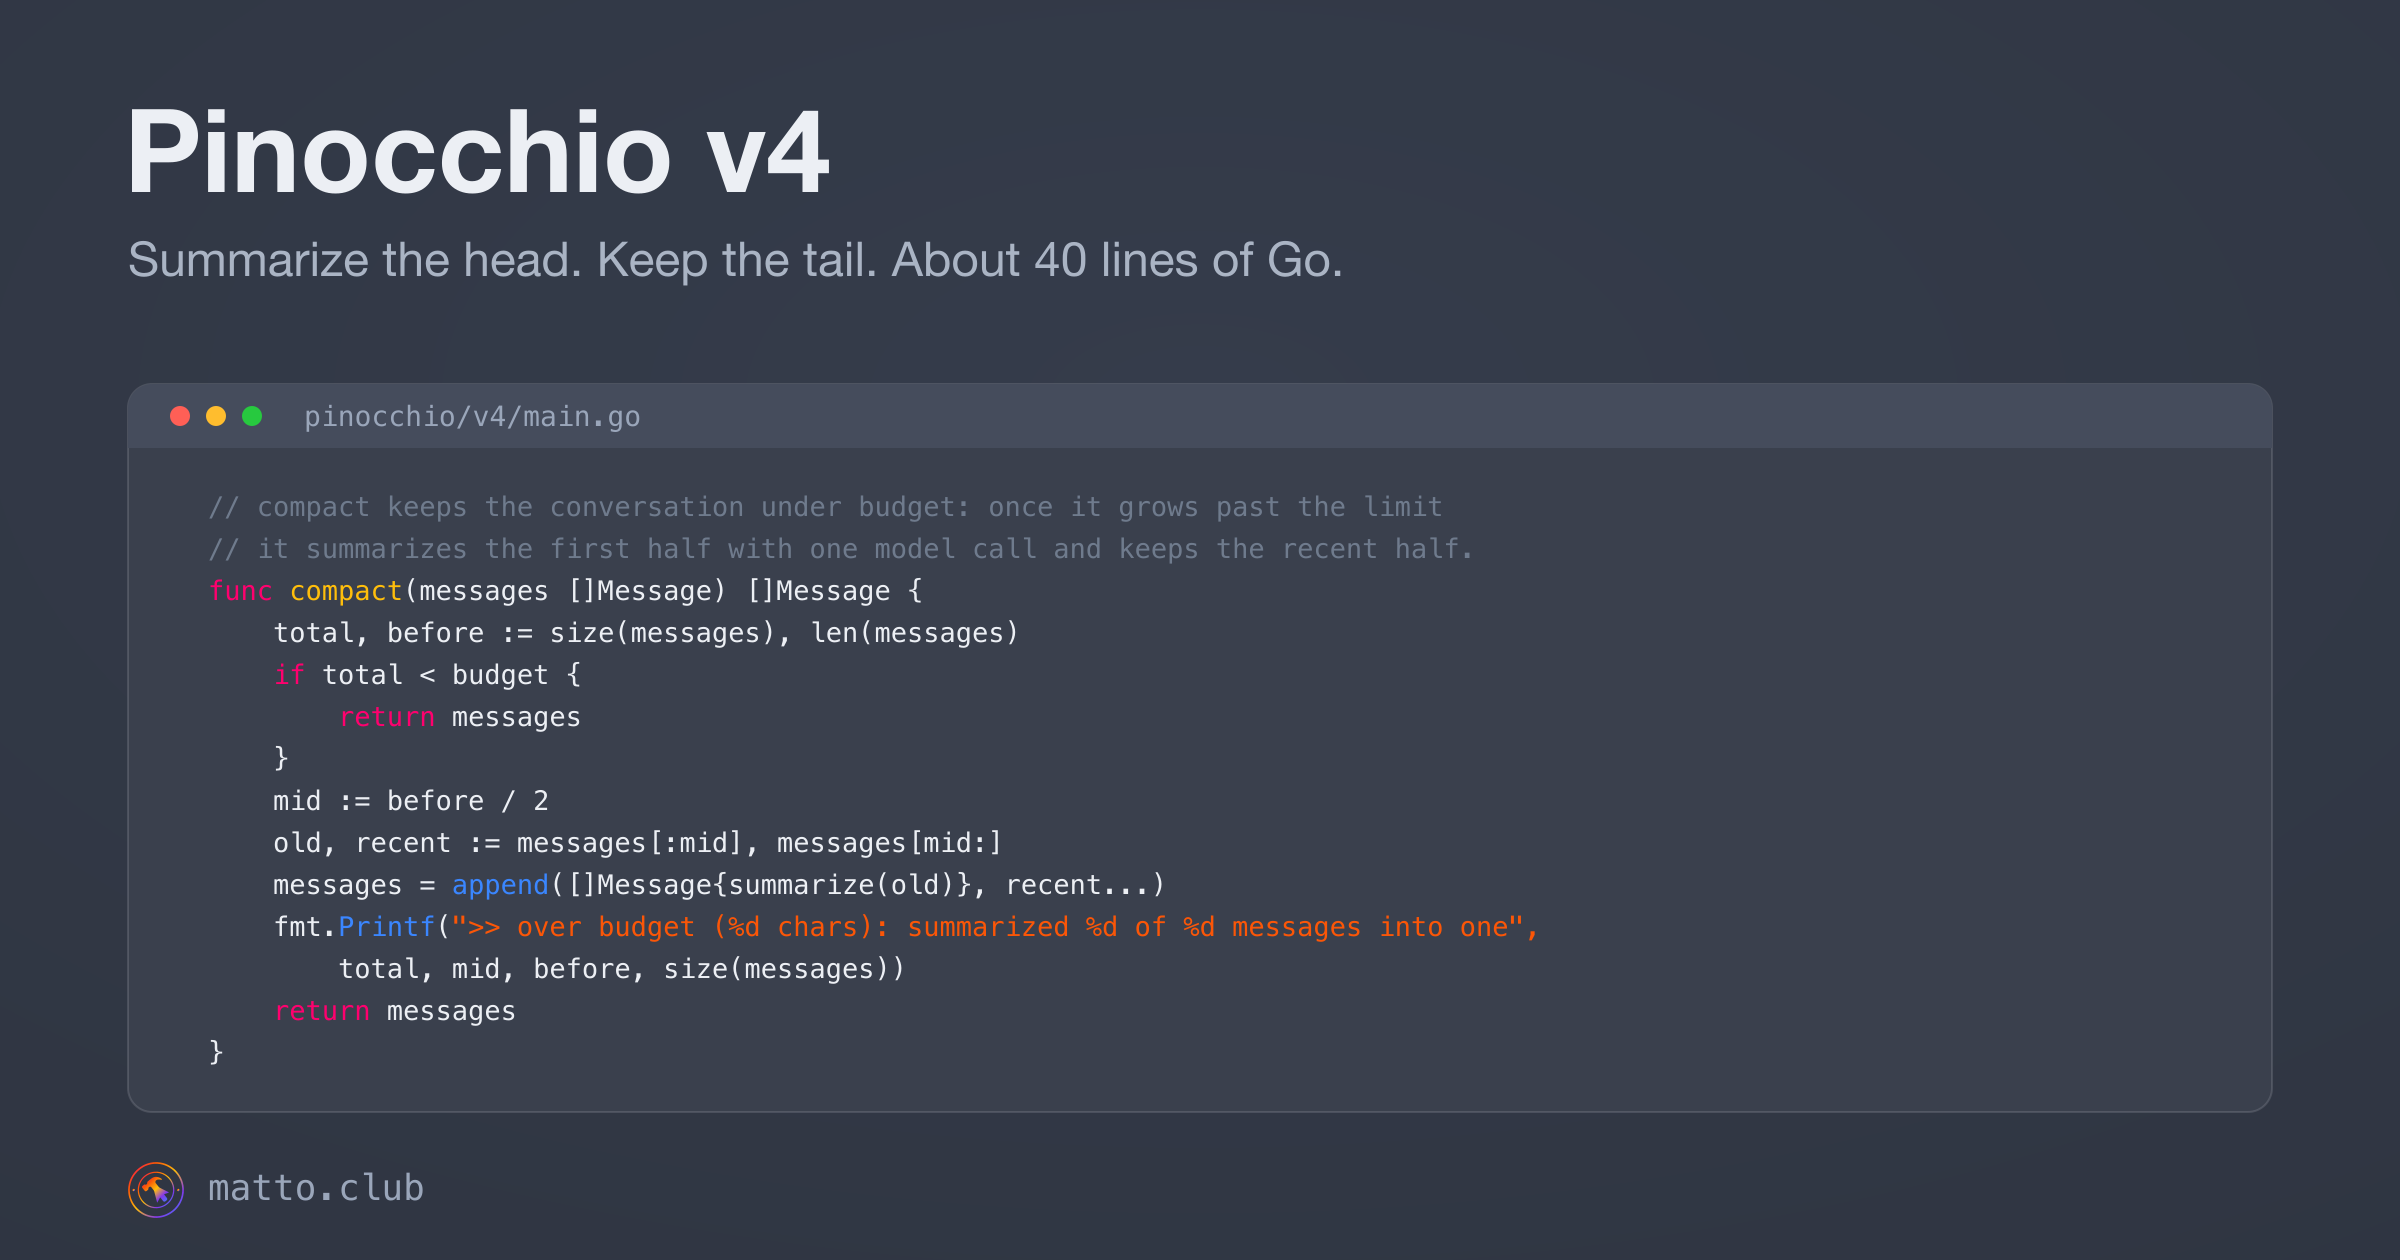
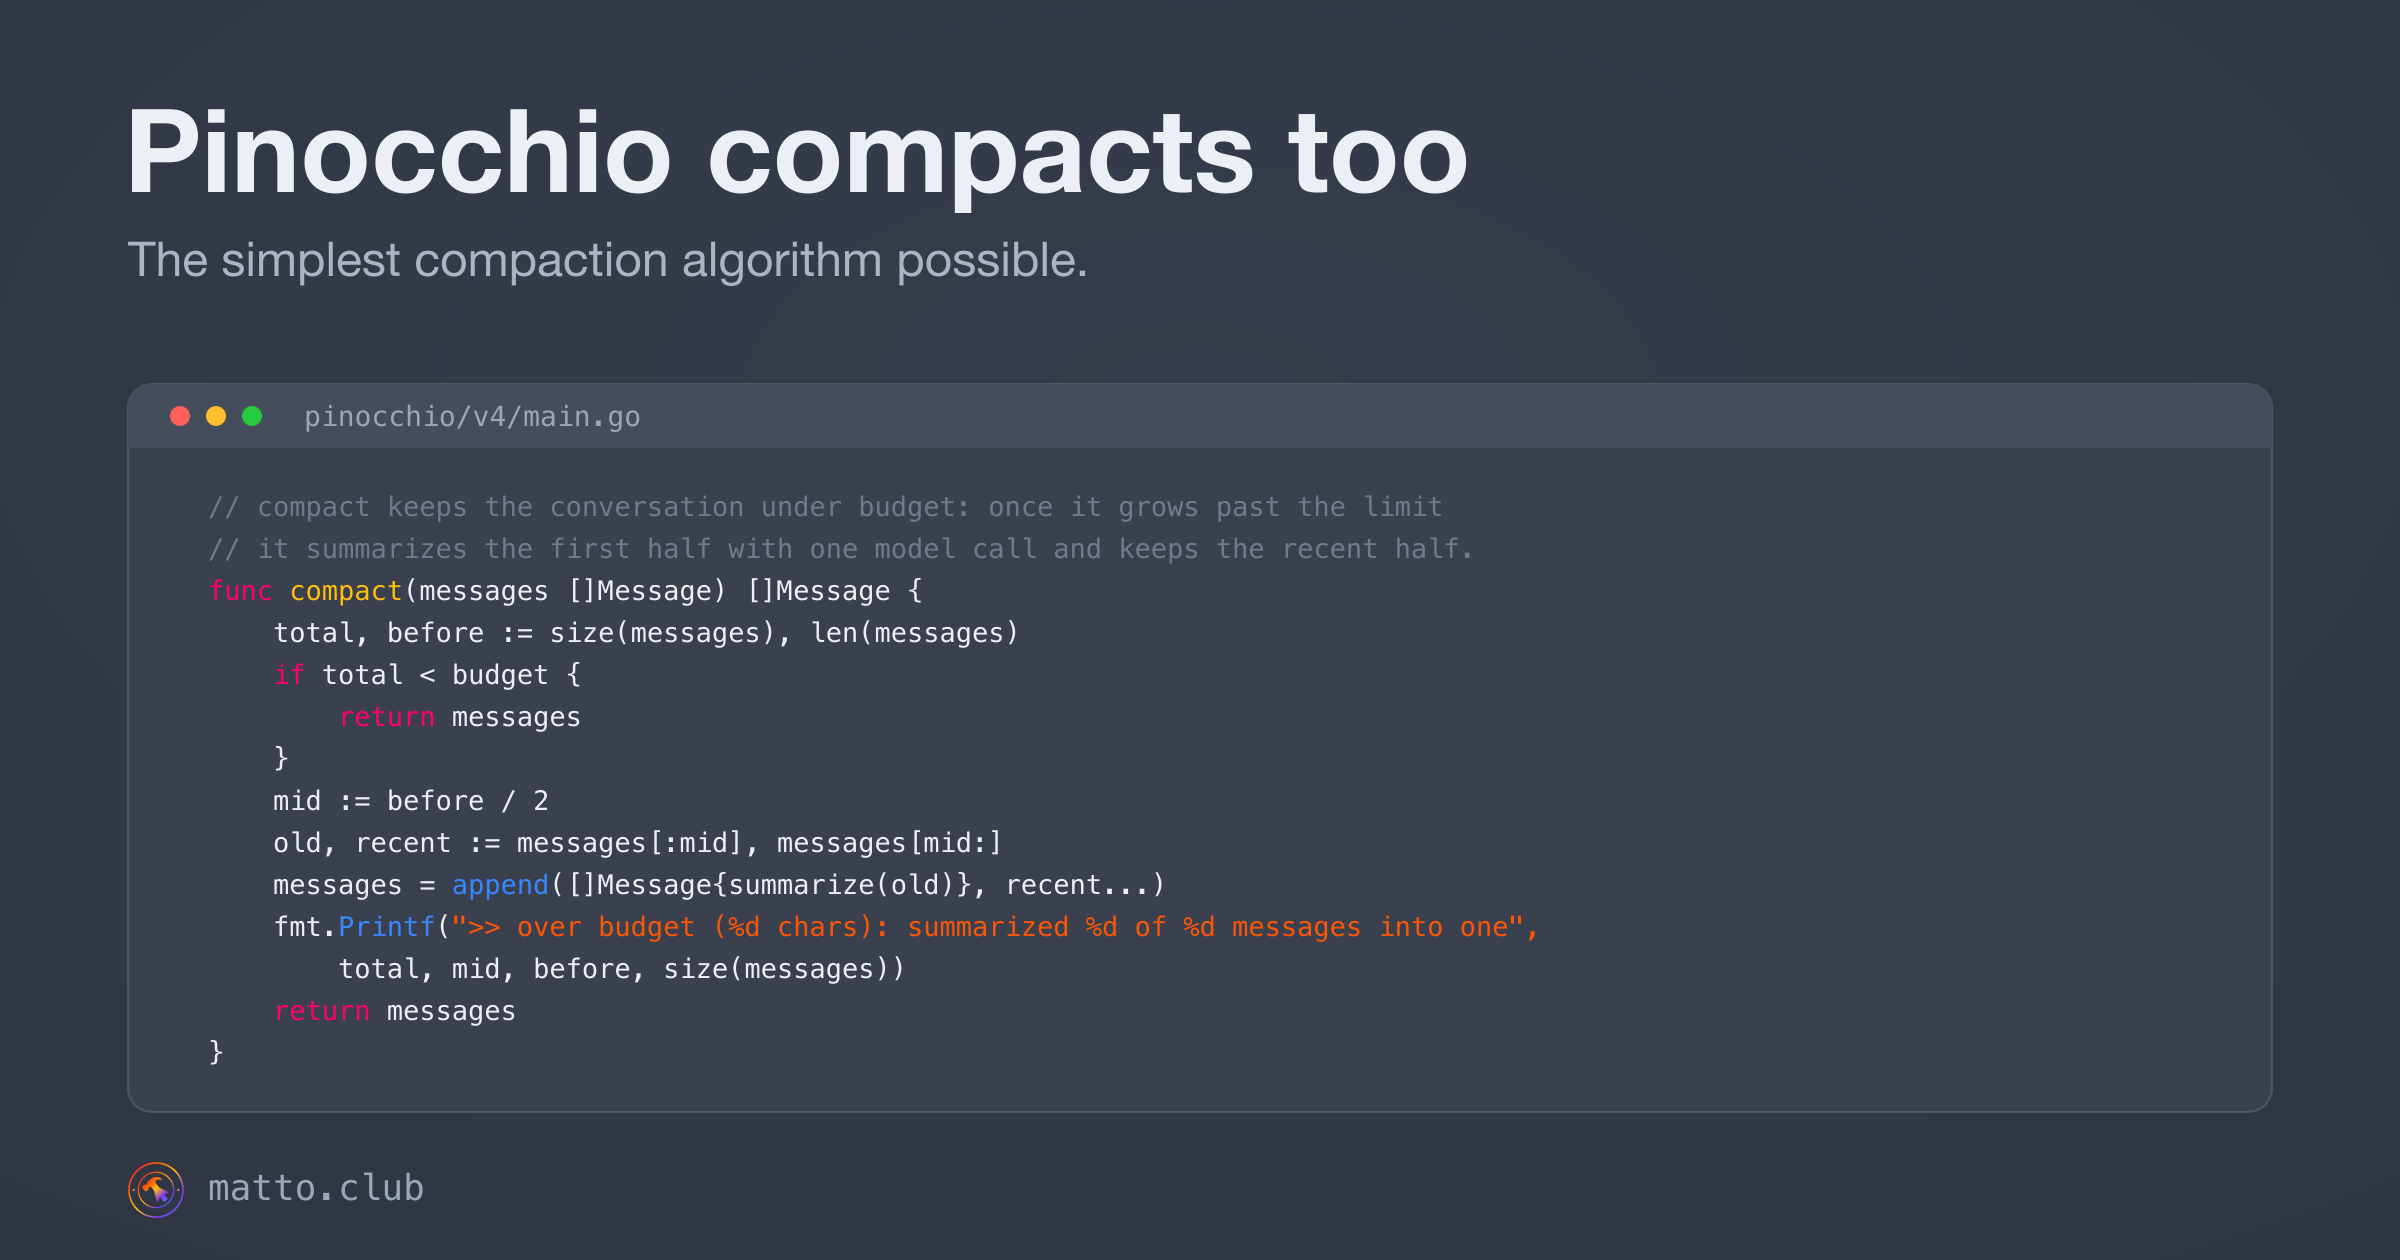
docs(mercato): rework pinocchio v4 announcements and match image to copy

Changed region(s): [[0.0312, 0.0929, 0.625, 0.2167]]

diff --git a/mercato/drafts/pinocchio-v4-compaction.md b/mercato/drafts/pinocchio-v4-compaction.md
@@ -1,5 +1,5 @@
 ---
-title: "Pinocchio v4: the one compaction strategy you actually need"
+title: "Pinocchio compacts too"
 platforms:
   - linkedin
   - twitter
@@ -13,18 +13,14 @@ image: https://github.com/clubmatto/vetrina/blob/main/website/src/assets/writing
 
 ## LinkedIn
 
-Pinocchio v4 has one compaction strategy: summarize the head, keep the recent tail. About 40 lines of Go.
+Pinocchio, our toy coding agent, comes with the simplest compaction
+algorithm possible. As you can see here in the snippet 👇.
 
-The deep dive confirms it: the algorithm is a commodity. The ten agents we read carry seven strategies, but the thresholds and budgets are settings. What differs is everything around the loop.
-
-Fine for a puppet. Your agent deserves the version that fits it.
-
-Read it here: https://matto.club/writing/how-coding-agents-work/how-compaction-works/
+For a discussion on real world implementation, check out our deep dive on
+compaction: https://matto.club/writing/how-coding-agents-work/how-compaction-works/
 
 ## Twitter
 
-Pinocchio v4 has one compaction strategy: summarize the head, keep the recent tail. About 40 lines of Go.
+Pinocchio, our toy coding agent, compacts with the simplest algorithm there is: summarize the head, keep the recent tail.
 
-The deep dive confirms it: the algorithm is a commodity. Fine for a puppet.
-
-https://matto.club/writing/how-coding-agents-work/how-compaction-works/
+The deep dive: https://matto.club/writing/how-coding-agents-work/how-compaction-works/
